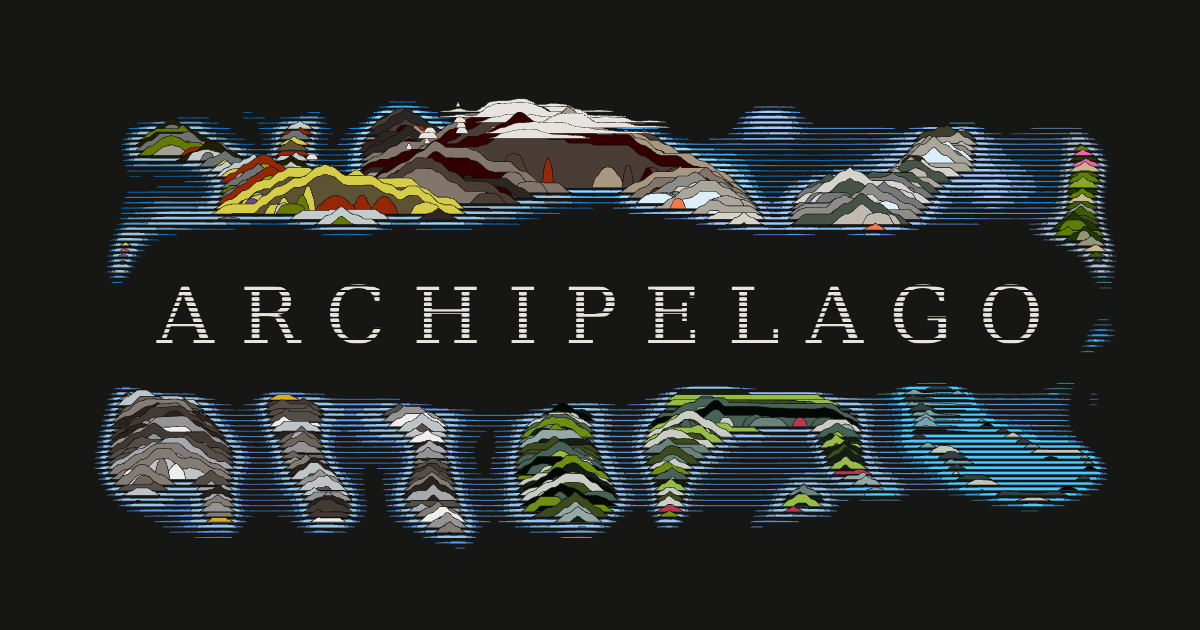
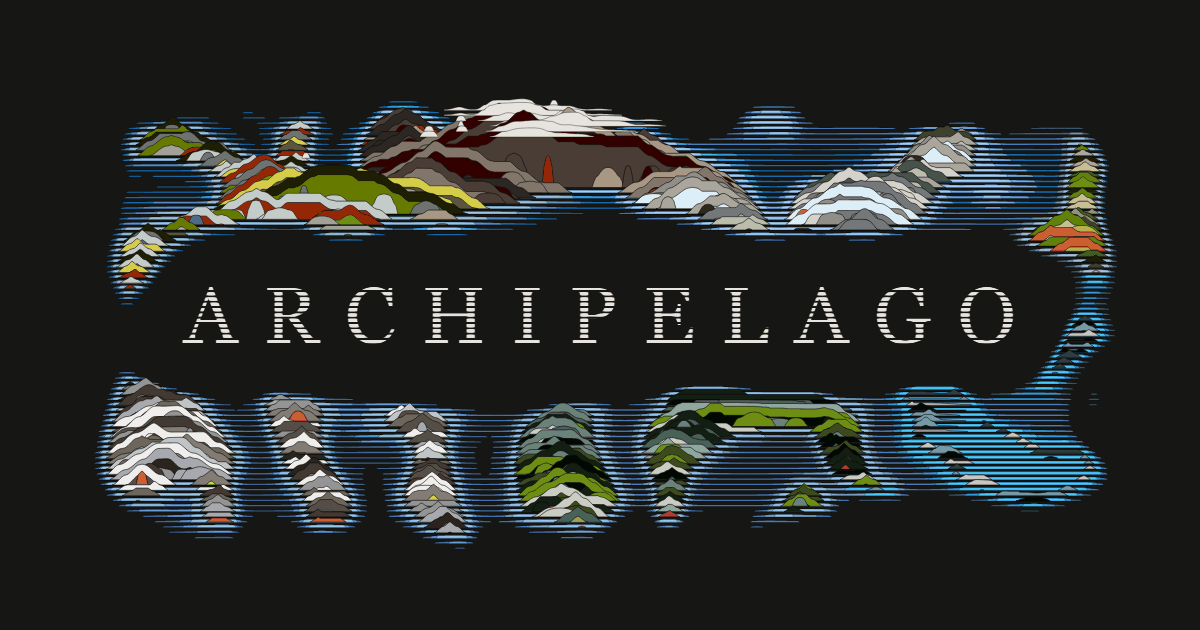
README's first line says what the front page says; share image in real Georgia
The first line was the old position. It now holds the front page's title and
opening, with the words Alex set on 1 Nov 2026.

The share image was drawn on the server, which has no Georgia, so its wordmark
was a fallback serif. Baked again from the same Share preset on a machine with
Georgia, as The ridges kit asks.

Archipelago-Run: e_ukpbntjv

Changed region(s): [[0.0617, 0.1508, 0.925, 0.8746], [0.4317, 0.4524, 0.4933, 0.5429]]

diff --git a/README.md b/README.md
@@ -2,7 +2,7 @@
 
 [![Tests](https://github.com/AlexReiner98/archipelago/actions/workflows/tests.yml/badge.svg?branch=main)](https://github.com/AlexReiner98/archipelago/actions/workflows/tests.yml)
 
-**A shared workspace for your people and your AI agents.**
+**A live map of all your work. Every prompt becomes a clear diagram of the work, updated as you build.**
 
 *Early: built and used daily by its author; expect rough edges.*
 
